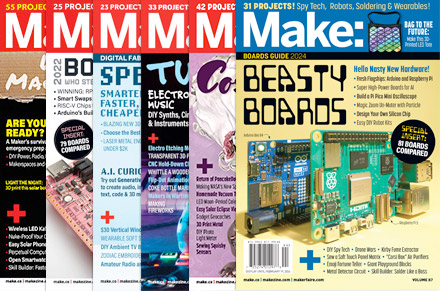
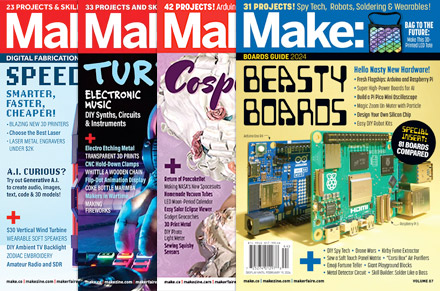
update make magazine subscribe footer image to only include 4 issues

diff --git a/wp-content/themes/make-community/style.css b/wp-content/themes/make-community/style.css
@@ -5,5 +5,5 @@ Author: 		Make: Community Dev Team
 Author URI: 	https://make.co
 Tags: buddypress
 Template: onecommunity
-Version: 1.0.1234
+Version: 1.0.1236
 */
